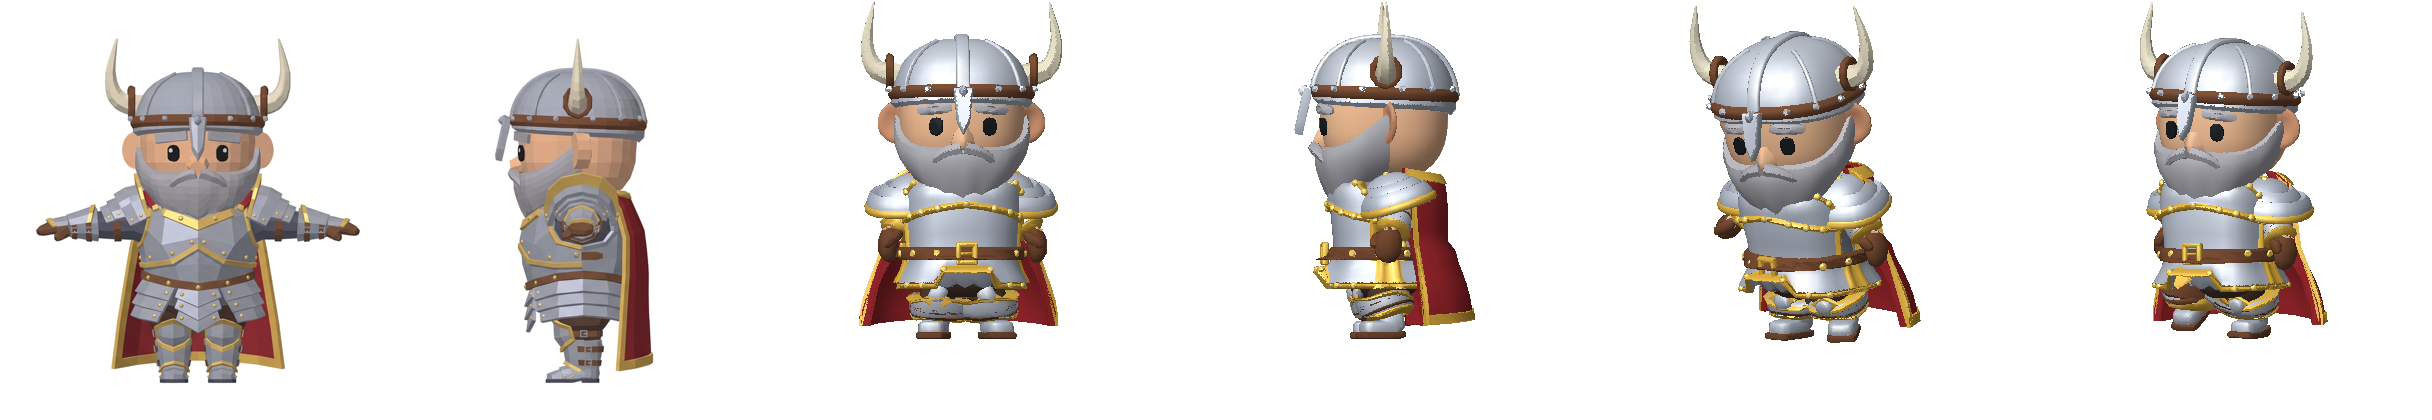
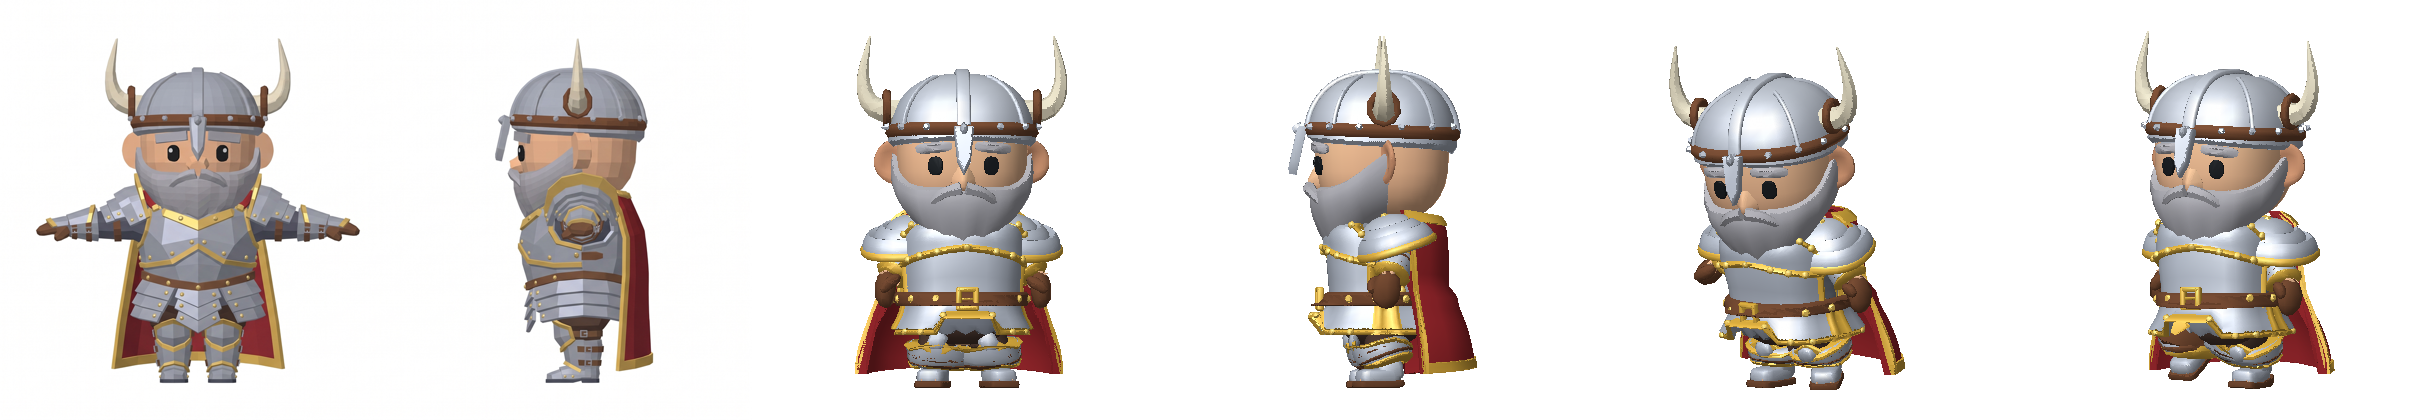
fix(assets): align character lineup framing to ground baseline
- Update camera viewport and centering in studio.py lineup rendering
- Align ground plane to ~0.92 height baseline matching 2D concept art
- Frame using aggregated bounds across idle and action poses for consistent scale
- Ensure tall elements (pointed hats, raised staves, horns) are fully visible without clipping
- Regenerate lineup images across all 15 characters

diff --git a/asset-studio/studio.py b/asset-studio/studio.py
@@ -174,8 +174,13 @@ def lineup(c, size=420):
         rig = Rig.load("large")
         golem_idle = rig.pose(pieces, *golems.POSE, helpers=golems.HELPERS)
         golem_piece = kit.Piece.merge(*golem_idle.values())
+        V = golem_piece.verts
+        H = float(V[:, 1].max()) - min(0.0, float(V[:, 1].min()))
+        w_span = max(float(np.ptp(V[:, 0])), float(np.ptp(V[:, 2])))
+        extent = max(H / 0.84, w_span * 1.15)
+        center = [0.0, 0.42 * extent, 0.0]
         for yaw, pitch in ((0.0, 0.0), (-90.0, 0.0), (-30.0, 6.0), (30.0, 6.0)):
-            tiles.append(catalog.render(golem_piece, None, size=size, yaw=yaw, pitch=pitch, colors=colors, background=WHITE))
+            tiles.append(catalog.render(golem_piece, None, size=size, yaw=yaw, pitch=pitch, extent=extent, center=center, colors=colors, background=WHITE))
     else:
         rig_path = export.TEMPLATES.get(template, os.path.join(STUDIO_DIR, "rigs", "templates", f"{template}.glb"))
         rig = Rig(rig_path) if os.path.exists(rig_path) else Rig.load("medium")
@@ -186,15 +191,30 @@ def lineup(c, size=420):
         idle_pcs = skinned(rig, pieces, idle_clip, t=idle_t)
         idle_merged = kit.Piece.merge(*idle_pcs.values())
         idle_final, idle_colors = _attach_weapons(idle_merged, weaps, rig, idle_clip, idle_t, colors)
-        tiles.append(catalog.render(idle_final, None, size=size, yaw=0.0, pitch=0.0, colors=idle_colors, background=WHITE))
-        tiles.append(catalog.render(idle_final, None, size=size, yaw=-90.0, pitch=0.0, colors=idle_colors, background=WHITE))
 
         # Action clips (Attack, Walk)
+        actions = []
+        all_posed = [idle_final]
         for clip, t in clips[1:]:
             action_pcs = skinned(rig, pieces, clip, t=t)
             action_merged = kit.Piece.merge(*action_pcs.values())
             action_final, action_colors = _attach_weapons(action_merged, weaps, rig, clip, t, colors)
-            tiles.append(catalog.render(action_final, None, size=size, yaw=-30.0, pitch=6.0, colors=action_colors, background=WHITE))
+            actions.append((action_final, action_colors))
+            all_posed.append(action_final)
+
+        # Ground-aligned baseline framing matching concept art reference (~0.92 height baseline):
+        all_verts = np.vstack([p.verts for p in all_posed])
+        y_min, y_max = float(all_verts[:, 1].min()), float(all_verts[:, 1].max())
+        H = y_max - min(0.0, y_min)
+        w_span = max(float(np.ptp(all_verts[:, 0])), float(np.ptp(all_verts[:, 2])))
+        extent = max(H / 0.84, w_span * 1.15)
+        center = [0.0, 0.42 * extent, 0.0]
+
+        tiles.append(catalog.render(idle_final, None, size=size, yaw=0.0, pitch=0.0, extent=extent, center=center, colors=idle_colors, background=WHITE))
+        tiles.append(catalog.render(idle_final, None, size=size, yaw=-90.0, pitch=0.0, extent=extent, center=center, colors=idle_colors, background=WHITE))
+
+        for action_final, action_colors in actions:
+            tiles.append(catalog.render(action_final, None, size=size, yaw=-30.0, pitch=6.0, extent=extent, center=center, colors=action_colors, background=WHITE))
 
     out = Image.new("RGB", (sum(t.width for t in tiles), size), WHITE)
     x = 0
